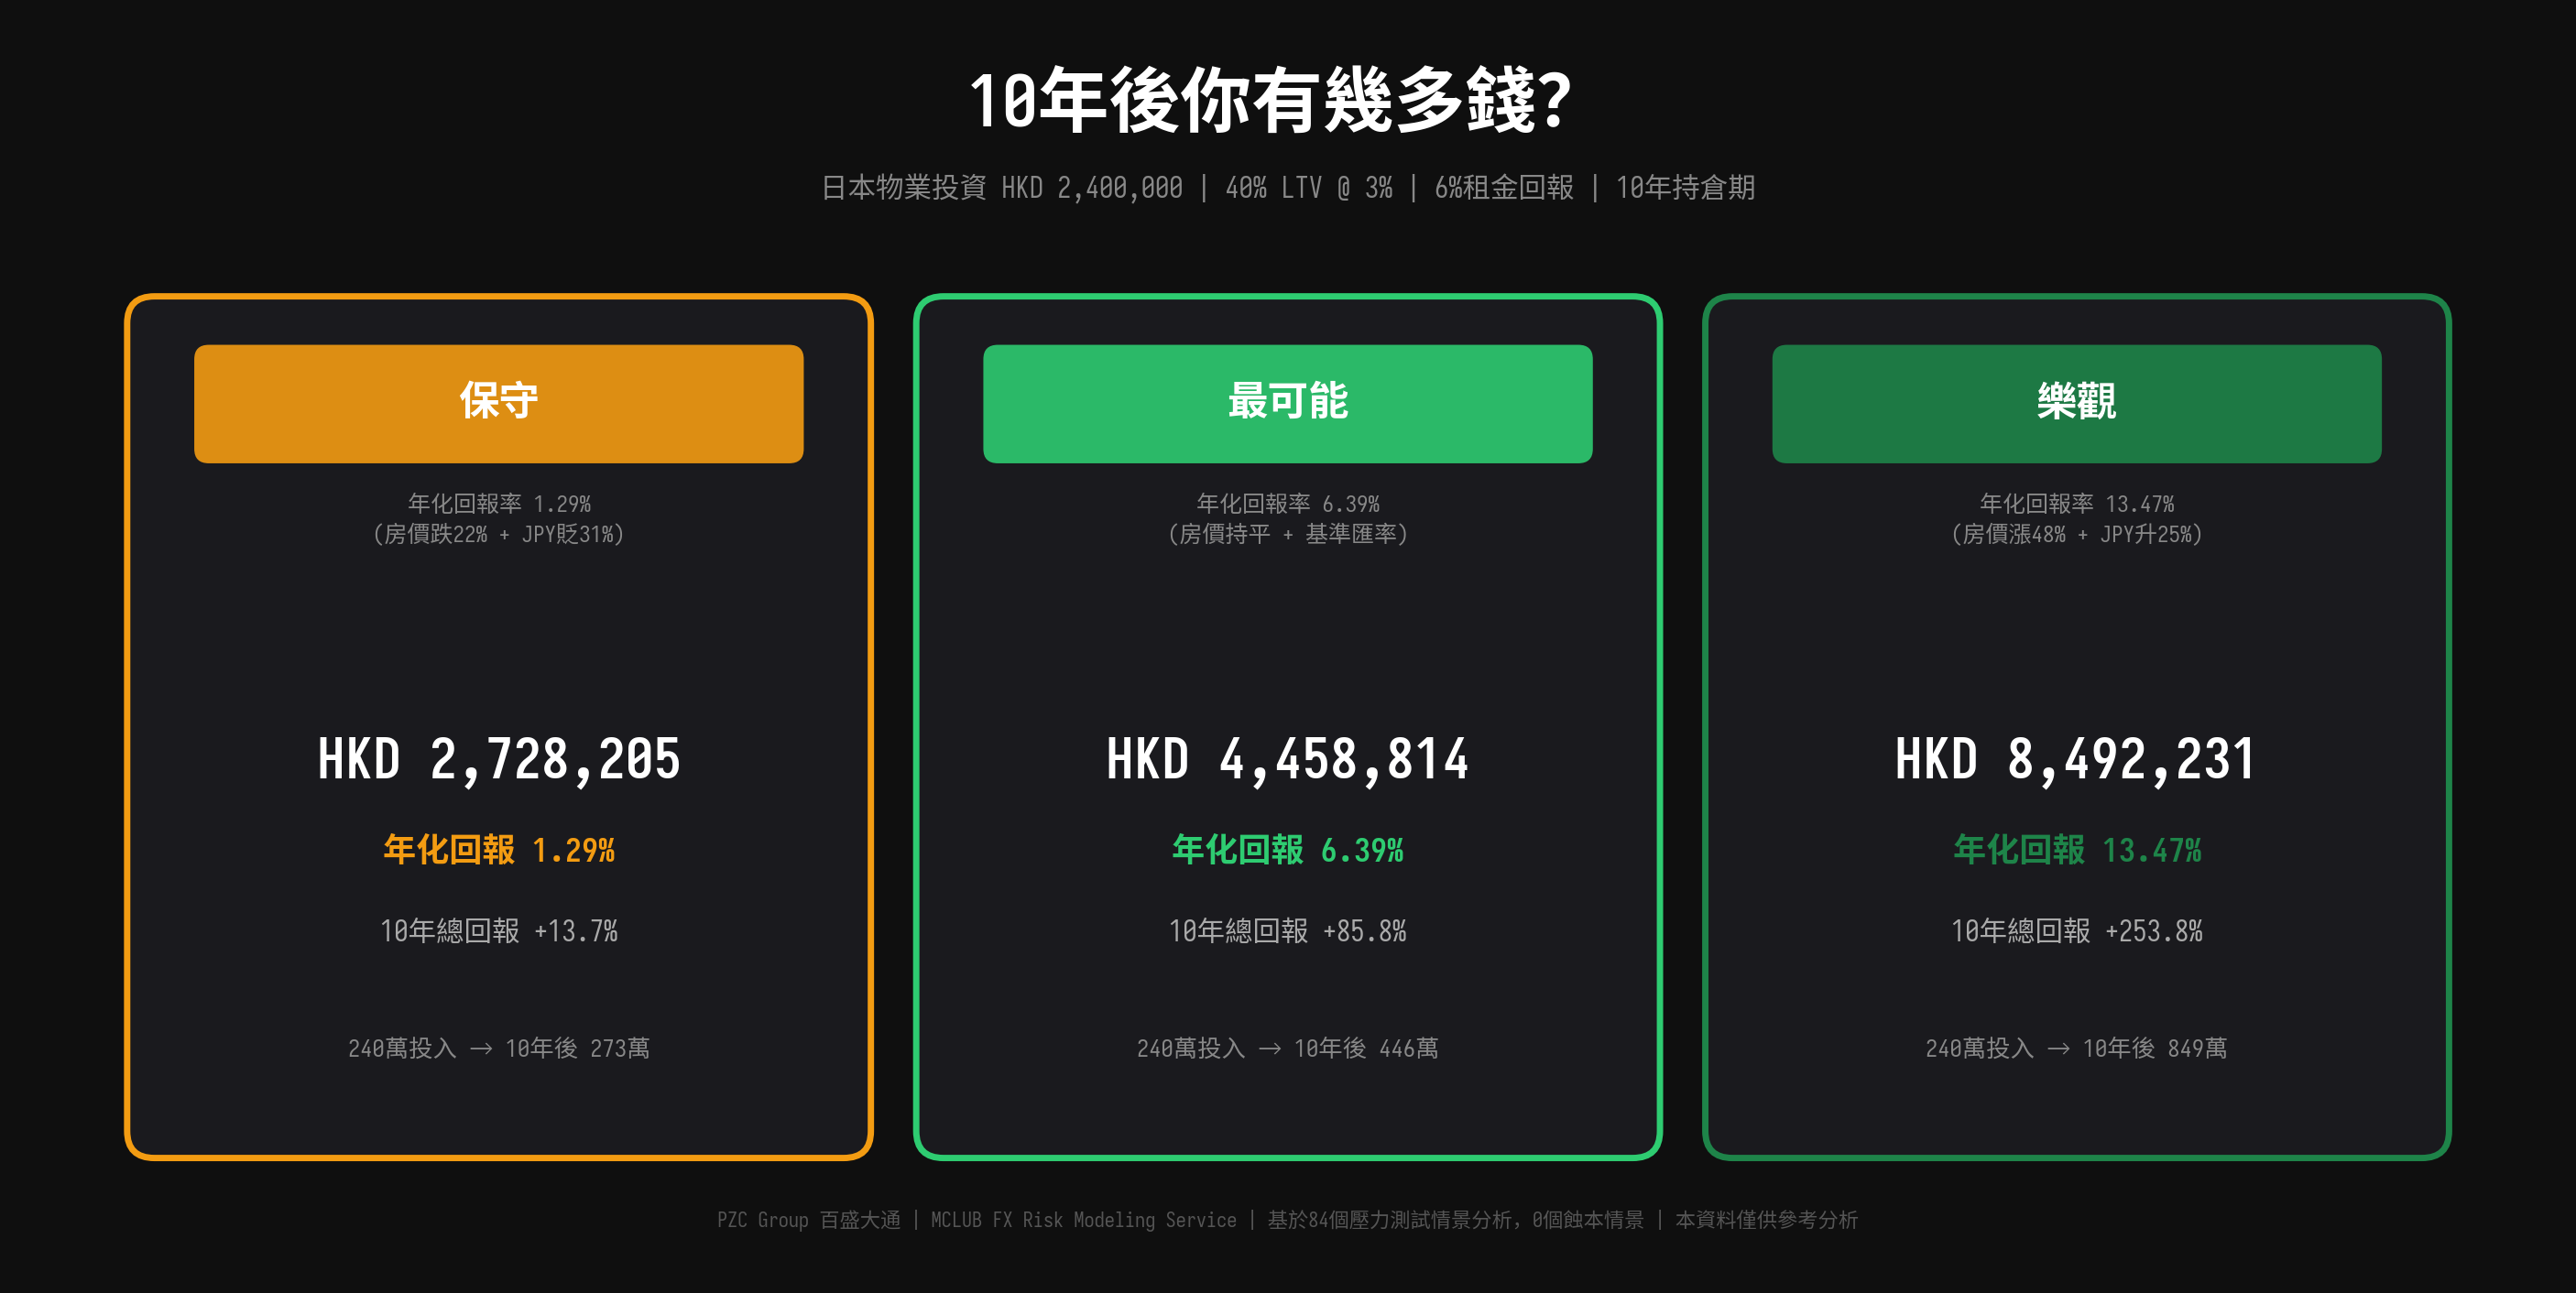
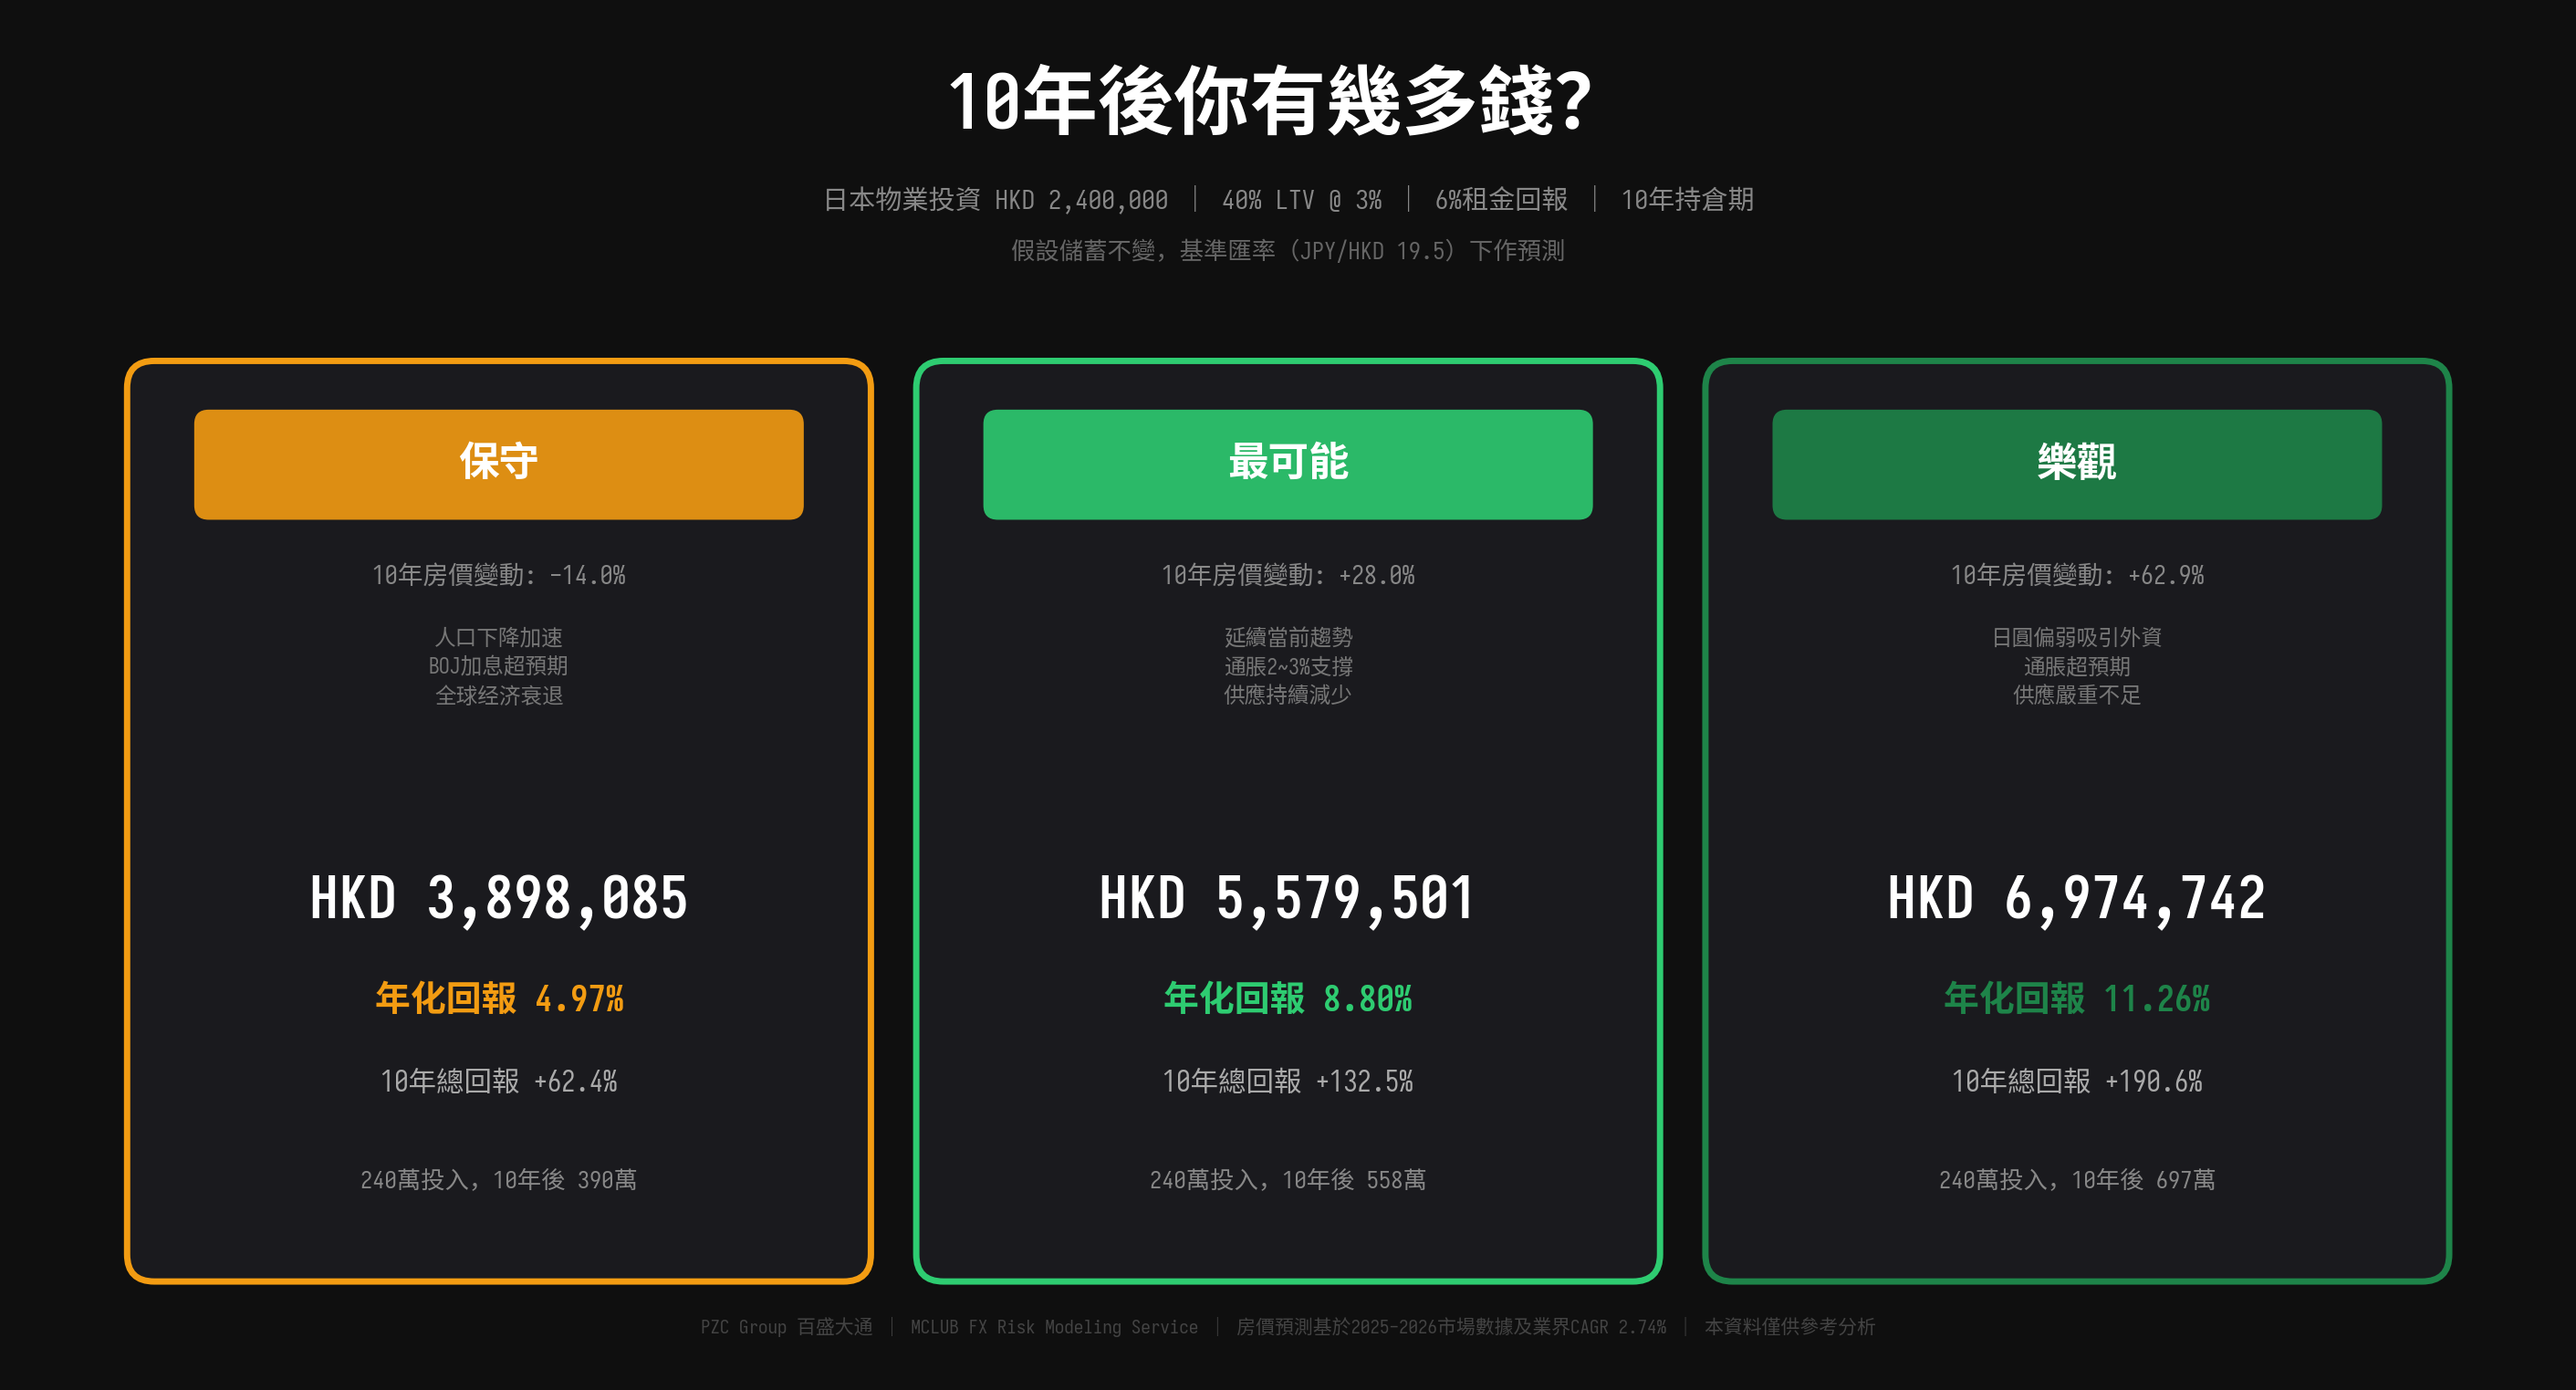
a6e562c7-780b-41a6-8e93-8a732330f9a4

diff --git a/download/gen_3scenarios.py b/download/gen_3scenarios.py
@@ -1,7 +1,9 @@
 # -*- coding: utf-8 -*-
 """
-PZC Group — JPY Property 3-Scenario Comparison Card
-Matching the style of the uploaded reference image
+PZC Group — JPY Property 3-Scenario Comparison Card (10-Year)
+Based on research-backed property price forecasts
+保守: 房價-1.5%/年  |  最可能: 房價+2.5%/年  |  樂觀: 房價+5.0%/年
+All at base FX rate (JPY/HKD 19.5)
 """
 import matplotlib
 matplotlib.use('Agg')
@@ -21,82 +23,81 @@ OUT = '/home/z/my-project/download/ppt_charts'
 # ── Colors ──
 DARK_BG   = '#0F0F0F'
 CARD_BG   = '#1A1A1E'
-CONSERVATIVE = '#F39C12'   # orange
-LIKELY      = '#2ECC71'   # green
-OPTIMISTIC  = '#1E8449'   # dark green
+CONSERVATIVE = '#F39C12'
+LIKELY      = '#2ECC71'
+OPTIMISTIC  = '#1E8449'
 WHITE  = '#FFFFFF'
 GREY   = '#888888'
 GOLD   = '#C9A84C'
 
-# ── Data (10-year holding) ──
-# Conservative: worst stress test (崩盤-22% + JPY貶31%) = 1.29% annualized
-# Most Likely: base (持平0% + 基準匯率) = 6.39% annualized  
-# Optimistic: best (增長+48% + JPY升+25%) = 13.47% annualized
+# ── Investment parameters ──
+invested_hkd = 2_400_000
+jpy_prop = 78_000_000
+fx_base = 19.5
+net_rent_jpy = 2_094_462  # per year
+hold = 10
+balance_at_exit = 11_990_939  # mortgage remaining at year 10
 
-invested = 2_400_000
-ann_cons = 1.29
-ann_likely = 6.39
-ann_opt = 13.47
-
-total_cons = invested * (1 + ann_cons/100)**10
-total_likely = invested * (1 + ann_likely/100)**10
-total_opt = invested * (1 + ann_opt/100)**10
-
-roi_cons = (total_cons - invested) / invested * 100
-roi_likely = (total_likely - invested) / invested * 100
-roi_opt = (total_opt - invested) / invested * 100
-
-scenarios = [
+# ── 3 Scenarios: property price annual change at base FX ──
+scenarios_data = [
     {
         'label': '保守',
-        'subtitle': '年化回報率 1.29%\n(房價跌22% + JPY貶31%)',
-        'total': total_cons,
-        'roi': roi_cons,
-        'note': '240萬投入 → 10年後 {:,.0f}萬'.format(total_cons/10000),
+        'prop_ann': -0.015,
         'color': CONSERVATIVE,
-        'ann_display': '1.29%',
+        'reason': '人口下降加速\nBOJ加息超預期\n全球经济衰退',
     },
     {
         'label': '最可能',
-        'subtitle': '年化回報率 6.39%\n(房價持平 + 基準匯率)',
-        'total': total_likely,
-        'roi': roi_likely,
-        'note': '240萬投入 → 10年後 {:,.0f}萬'.format(total_likely/10000),
+        'prop_ann': 0.025,
         'color': LIKELY,
-        'ann_display': '6.39%',
+        'reason': '延續當前趨勢\n通脹2~3%支撐\n供應持續減少',
     },
     {
         'label': '樂觀',
-        'subtitle': '年化回報率 13.47%\n(房價漲48% + JPY升25%)',
-        'total': total_opt,
-        'roi': roi_opt,
-        'note': '240萬投入 → 10年後 {:,.0f}萬'.format(total_opt/10000),
+        'prop_ann': 0.05,
         'color': OPTIMISTIC,
-        'ann_display': '13.47%',
+        'reason': '日圓偏弱吸引外資\n通脹超預期\n供應嚴重不足',
     },
 ]
 
-fig, ax = plt.subplots(figsize=(14, 7))
+for s in scenarios_data:
+    prop_10y = jpy_prop * (1 + s['prop_ann'])**hold
+    net_exit_jpy = prop_10y - balance_at_exit
+    net_exit_hkd = net_exit_jpy / fx_base
+    rent_10y_hkd = (net_rent_jpy / fx_base) * hold
+    total_hkd = rent_10y_hkd + net_exit_hkd
+    roi = (total_hkd - invested_hkd) / invested_hkd * 100
+    ann = ((total_hkd / invested_hkd)**(1/hold) - 1) * 100
+    s['prop_10y'] = prop_10y
+    s['total_hkd'] = total_hkd
+    s['roi'] = roi
+    s['ann'] = ann
+    s['prop_change_pct'] = (prop_10y / jpy_prop - 1) * 100
+
+# ── Draw ──
+fig, ax = plt.subplots(figsize=(14, 7.5))
 fig.patch.set_facecolor(DARK_BG)
 ax.set_facecolor(DARK_BG)
 ax.set_xlim(0, 14)
-ax.set_ylim(0, 7)
+ax.set_ylim(0, 7.5)
 ax.axis('off')
 
 # ── Title ──
-ax.text(7, 6.5, '10年後你有幾多錢？', fontsize=28, fontweight='bold',
-        color=WHITE, ha='center', va='center', fontfamily='Sarasa Mono SC')
-ax.text(7, 6.05, '日本物業投資 HKD 2,400,000 | 40% LTV @ 3% | 6%租金回報 | 10年持倉期',
-        fontsize=11, color=GREY, ha='center', va='center', fontfamily='Sarasa Mono SC')
+ax.text(7, 7.0, '10年後你有幾多錢？', fontsize=30, fontweight='bold',
+        color=WHITE, ha='center', va='center')
+ax.text(7, 6.5, '日本物業投資 HKD 2,400,000 ｜ 40% LTV @ 3% ｜ 6%租金回報 ｜ 10年持倉期',
+        fontsize=10.5, color=GREY, ha='center', va='center')
+ax.text(7, 6.2, '假設儲蓄不變，基準匯率（JPY/HKD 19.5）下作預測',
+        fontsize=9.5, color='#666666', ha='center', va='center')
 
 # ── 3 Cards ──
 card_w = 3.8
-card_h = 4.5
-card_y = 0.8
+card_h = 4.8
+card_y = 0.65
 gap = 0.55
 start_x = (14 - 3*card_w - 2*gap) / 2
 
-for i, s in enumerate(scenarios):
+for i, s in enumerate(scenarios_data):
     x = start_x + i * (card_w + gap)
     c = s['color']
     
@@ -107,45 +108,56 @@ for i, s in enumerate(scenarios):
                                    linewidth=2.5)
     ax.add_patch(card)
     
-    # Strategy label (colored bar at top)
-    label_bar = patches.FancyBboxPatch((x + 0.3, card_y + card_h - 0.7), card_w - 0.6, 0.5,
+    # Strategy label bar
+    label_bar = patches.FancyBboxPatch((x + 0.3, card_y + card_h - 0.65), card_w - 0.6, 0.45,
                                         boxstyle="round,pad=0.08",
                                         facecolor=c, edgecolor='none', alpha=0.9)
     ax.add_patch(label_bar)
-    ax.text(x + card_w/2, card_y + card_h - 0.45, s['label'],
+    ax.text(x + card_w/2, card_y + card_h - 0.425, s['label'],
             fontsize=16, fontweight='bold', color=WHITE, ha='center', va='center')
     
-    # Subtitle (scenario description)
-    ax.text(x + card_w/2, card_y + card_h - 1.1, s['subtitle'],
-            fontsize=9, color=GREY, ha='center', va='center', linespacing=1.4)
+    # Property price change
+    prop_sign = '+' if s['prop_change_pct'] >= 0 else ''
+    ax.text(x + card_w/2, card_y + card_h - 1.05,
+            '10年房價變動: {}{:.1f}%'.format(prop_sign, s['prop_change_pct']),
+            fontsize=10, color=GREY, ha='center', va='center')
+    
+    # Reason bullets
+    ax.text(x + card_w/2, card_y + card_h - 1.55, s['reason'],
+            fontsize=8.5, color='#777777', ha='center', va='center', linespacing=1.5)
     
     # Total amount (big number)
-    total_str = 'HKD {:,.0f}'.format(s['total'])
-    ax.text(x + card_w/2, card_y + card_h/2 - 0.2, total_str,
-            fontsize=22, fontweight='bold', color=WHITE, ha='center', va='center')
+    total_str = 'HKD {:,.0f}'.format(s['total_hkd'])
+    ax.text(x + card_w/2, card_y + card_h/2 - 0.45, total_str,
+            fontsize=23, fontweight='bold', color=WHITE, ha='center', va='center')
     
     # Annualized return
-    ax.text(x + card_w/2, card_y + card_h/2 - 0.7, '年化回報 {}'.format(s['ann_display']),
-            fontsize=13, fontweight='bold', color=c, ha='center', va='center')
+    ax.text(x + card_w/2, card_y + card_h/2 - 1.0,
+            '年化回報 {:.2f}%'.format(s['ann']),
+            fontsize=14, fontweight='bold', color=c, ha='center', va='center')
     
-    # ROI
-    ax.text(x + card_w/2, card_y + card_h/2 - 1.15, '10年總回報 +{:.1f}%'.format(s['roi']),
+    # Total ROI
+    ax.text(x + card_w/2, card_y + card_h/2 - 1.45,
+            '10年總回報 +{:.1f}%'.format(s['roi']),
             fontsize=11, color='#AAAAAA', ha='center', va='center')
     
     # Bottom note
-    ax.text(x + card_w/2, card_y + 0.45, s['note'],
+    ax.text(x + card_w/2, card_y + 0.4,
+            '240萬投入，10年後 {:,.0f}萬'.format(s['total_hkd']/10000),
             fontsize=9.5, color=GREY, ha='center', va='center')
 
 # ── Bottom disclaimer ──
-ax.text(7, 0.3, 'PZC Group 百盛大通 | MCLUB FX Risk Modeling Service | 基於84個壓力測試情景分析，0個蝕本情景 | 本資料僅供參考分析',
-        fontsize=8, color='#555555', ha='center', va='center')
+ax.text(7, 0.25,
+        'PZC Group 百盛大通 ｜ MCLUB FX Risk Modeling Service ｜ '
+        '房價預測基於2025-2026市場數據及業界CAGR 2.74% ｜ 本資料僅供參考分析',
+        fontsize=7.5, color='#444444', ha='center', va='center')
 
-plt.tight_layout(pad=0.5)
+plt.tight_layout(pad=0.3)
 plt.savefig('{}/ten_year_3scenarios.png'.format(OUT), dpi=200, bbox_inches='tight',
             facecolor=DARK_BG, edgecolor='none')
 plt.close()
 
 print("OK ten_year_3scenarios.png")
-print(f"Conservative: HKD {total_cons:,.0f} (年化 {ann_cons}%)")
-print(f"Most Likely:  HKD {total_likely:,.0f} (年化 {ann_likely}%)")
-print(f"Optimistic:   HKD {total_opt:,.0f} (年化 {ann_opt}%)")
+for s in scenarios_data:
+    print("{}: HKD {:,.0f} (年化 {:.2f}%, ROI +{:.1f}%, 房價{:+.1f}%)".format(
+        s['label'], s['total_hkd'], s['ann'], s['roi'], s['prop_change_pct']))